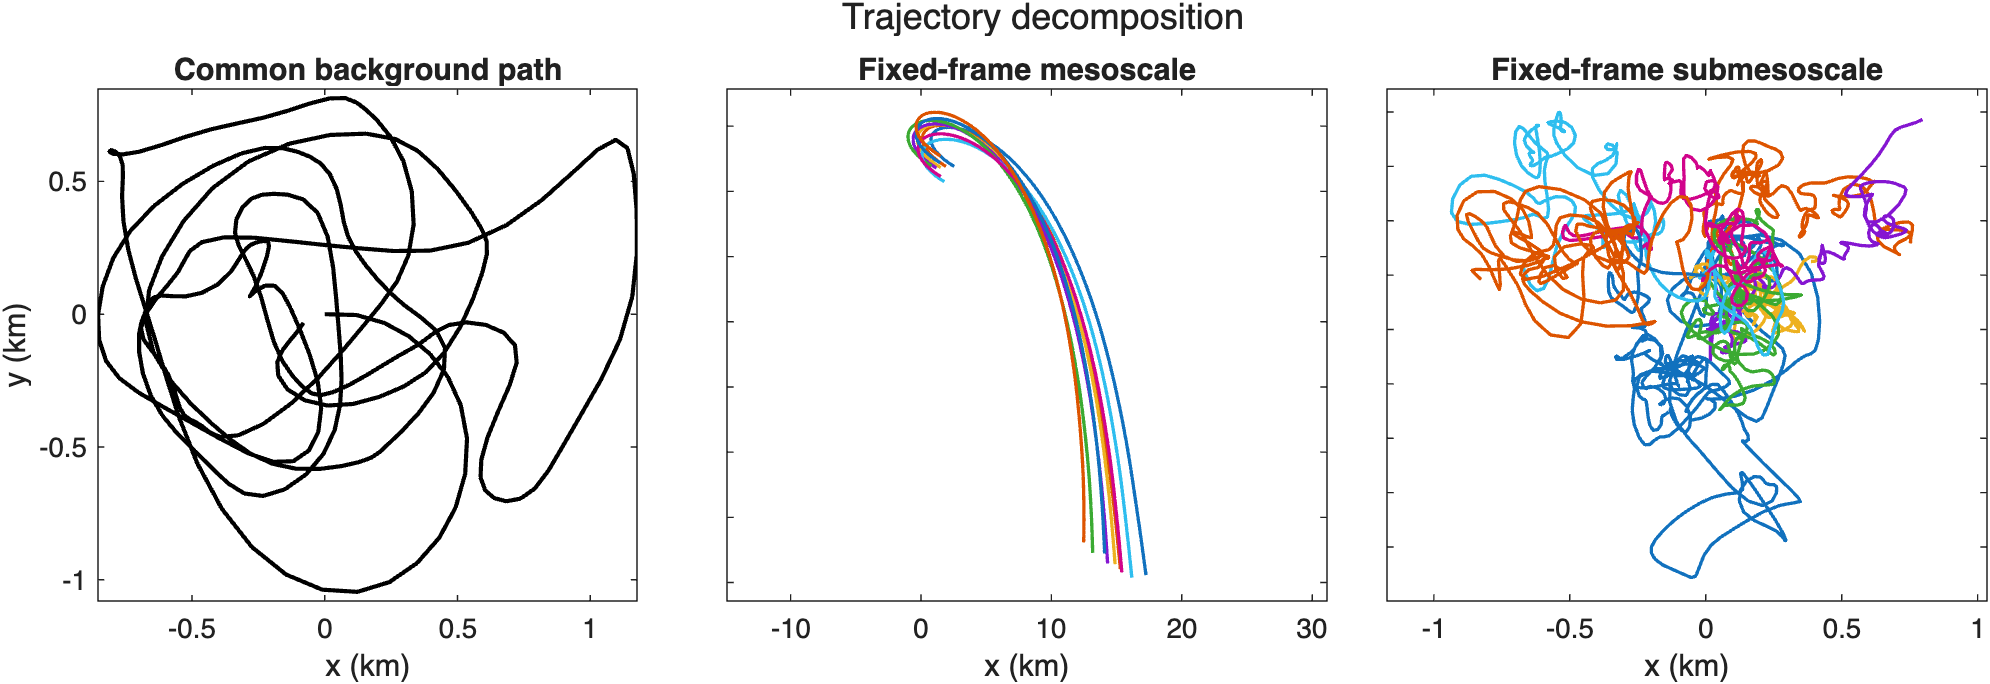
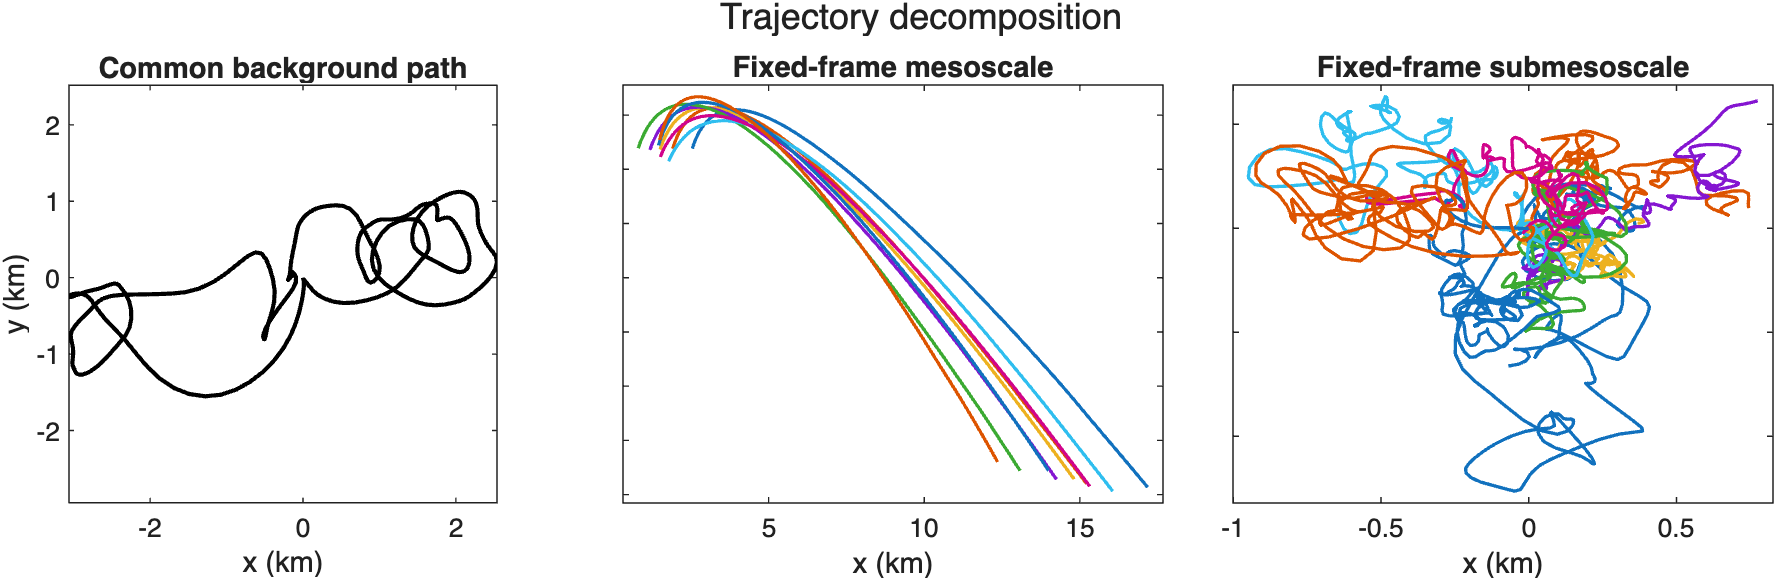
Refine gridded streamfunction tutorial narrative

diff --git a/Examples/Tutorials/GriddedStreamfunctionFit.m b/Examples/Tutorials/GriddedStreamfunctionFit.m
@@ -11,16 +11,11 @@
 %
 % $$ \dot{x}_k = u^{\mathrm{meso}} + u^{\mathrm{bg}} + u_k^{\mathrm{sm}}, \qquad \dot{y}_k = v^{\mathrm{meso}} + v^{\mathrm{bg}} + v_k^{\mathrm{sm}}. $$
 %
-% The checked-in Site 1 LatMix cluster translates together in the fixed
-% frame while also shearing and spreading relative to its center of mass.
-% This tutorial starts from those observed trajectories, then removes the
-% common translation to fit a zero-vorticity mesoscale model.
+% These are smoothed Site 1 LatMix trajectories in the fixed frame. The
+% goal is to separate the common cluster translation from the relative
+% motion within the cluster.
 scriptDir = fileparts(mfilename("fullpath"));
 dataPath = fullfile(scriptDir, "..", "..", "Estimation", "ExampleData", "LatMix2011", "smoothedGriddedRho1Drifters.mat");
-if ~isfile(dataPath)
-    error("GriddedStreamfunction:MissingExampleData", "Expected local example data at %s.", dataPath);
-end
-
 siteData = load(dataPath);
 t = reshape(siteData.t, [], 1);
 x = siteData.x(:, 1:(end - 1));
@@ -30,31 +25,39 @@ tDays = t/86400;
 f0 = 2 * 7.2921e-5 * sin(siteData.lat0*pi/180);
 
 %% Plot the drifters in the fixed frame
-% In the laboratory frame, the cluster translation and the relative motion
-% are superimposed. The fit will later separate those two pieces.
+% These smoothed trajectories are shown in the fixed frame. The fit will
+% separate the common translation from the relative motion.
 figure(Color="w", Position=[100 100 430 360]); axFixed = axes; hold(axFixed, "on")
 for iDrifter = 1:nDrifters
     plot(axFixed, x(:, iDrifter)/1000, y(:, iDrifter)/1000, LineWidth=1.2);
 end
 axis(axFixed, "equal"); xlabel(axFixed, "x (km)"); ylabel(axFixed, "y (km)")
 title(axFixed, "Fixed-frame drifters"); box(axFixed, "on")
-if exist("tutorialFigureCapture", "var") && isa(tutorialFigureCapture, "function_handle"), tutorialFigureCapture("fixed-frame-drifters", Caption="In the fixed frame, the Site 1 drifters translate together while their relative spreading remains embedded in the common cluster motion."); end
+if exist("tutorialFigureCapture", "var") && isa(tutorialFigureCapture, "function_handle"), tutorialFigureCapture("fixed-frame-drifters", Caption="These smoothed fixed-frame trajectories still combine the common cluster translation with the relative motion that the estimator will separate."); end
 
-%% Convert the drifters to trajectory splines
-% Each drifter becomes one cubic `TrajectorySpline`, so the estimator
-% works with both positions and spline-derived velocities on the same
-% support times.
+%% Build the centered zero-vorticity fit
+% Each drifter is first represented as a cubic `TrajectorySpline`, then
+% the fit is built directly from those splines with
+% [`fromTrajectories`](../classes/estimators/gridded-streamfunction/griddedstreamfunction/fromtrajectories).
+% The key control is
+% [`psiS`](../classes/estimators/gridded-streamfunction/griddedstreamfunction/psis):
+% `psiS=[2 2 1]` makes the centered mesoscale streamfunction quadratic in
+% `q` and `r`, and linear in time, so the fit can represent a slowly
+% evolving strain field without becoming high order.
+% [`fastS`](../classes/estimators/gridded-streamfunction/griddedstreamfunction/fasts)
+% = `3` keeps the center-of-mass and background trajectories cubic in
+% time, and
+% [`mesoscaleConstraint`](../classes/estimators/gridded-streamfunction/griddedstreamfunction/mesoscaleconstraint)
+% = `"zeroVorticity"` removes solid-body rotation so the mesoscale fit is
+% harmonic and strain-dominated. See
+% [`centeredCoordinates`](../classes/estimators/gridded-streamfunction/griddedstreamfunction/centeredcoordinates)
+% for the matching COM-frame transform.
 trajectoryCell = cell(nDrifters, 1);
 for iDrifter = 1:nDrifters
     trajectoryCell{iDrifter} = TrajectorySpline.fromData(t, x(:, iDrifter), y(:, iDrifter), S=3);
 end
 trajectories = vertcat(trajectoryCell{:});
-
-%% Fit a zero-vorticity mesoscale model
-% The Site 1 tutorial uses a quadratic-in-space, cubic-in-time mesoscale
-% spline basis together with `mesoscaleConstraint="zeroVorticity"`, which
-% keeps the fitted mesoscale flow harmonic in the centered frame.
-fit = GriddedStreamfunction.fromTrajectories(trajectories, psiS=[2 2 3], fastS=3, mesoscaleConstraint="zeroVorticity");
+fit = GriddedStreamfunction.fromTrajectories(trajectories, psiS=[2 2 1], fastS=3, mesoscaleConstraint="zeroVorticity");
 decomposition = fit.decomposition;
 
 %% Move to the center-of-mass frame
@@ -114,28 +117,36 @@ if exist("tutorialFigureCapture", "var") && isa(tutorialFigureCapture, "function
 backgroundX = fit.backgroundTrajectory.x(t);
 backgroundY = fit.backgroundTrajectory.y(t);
 
-figure(Color="w", Position=[100 100 1080 340]); tlDecomposition = tiledlayout(1, 3, TileSpacing="none", Padding="compact");
+figure(Color="w", Position=[100 100 960 290]); tlDecomposition = tiledlayout(1, 3, TileSpacing="compact", Padding="compact");
 axBackgroundPath = nexttile;
 plot(axBackgroundPath, backgroundX/1000, backgroundY/1000, "k", LineWidth=1.5)
 axis(axBackgroundPath, "equal"); xlabel(axBackgroundPath, "x (km)"); ylabel(axBackgroundPath, "y (km)")
 title(axBackgroundPath, "Common background path"); box(axBackgroundPath, "on")
 
 axMesoscale = nexttile; hold(axMesoscale, "on")
+mesoXMin = inf; mesoXMax = -inf; mesoYMin = inf; mesoYMax = -inf;
 for iDrifter = 1:nDrifters
     trajectory = fit.observedTrajectories(iDrifter); ti = trajectory.t; mesoscale = decomposition.fixedFrame.mesoscale(iDrifter);
-    plot(axMesoscale, mesoscale.x(ti)/1000, mesoscale.y(ti)/1000, LineWidth=1.2)
+    xMeso = mesoscale.x(ti)/1000; yMeso = mesoscale.y(ti)/1000;
+    mesoXMin = min(mesoXMin, min(xMeso)); mesoXMax = max(mesoXMax, max(xMeso));
+    mesoYMin = min(mesoYMin, min(yMeso)); mesoYMax = max(mesoYMax, max(yMeso));
+    plot(axMesoscale, xMeso, yMeso, LineWidth=1.2)
 end
-axis(axMesoscale, "equal"); xMeso = xlim(axMesoscale); yMeso = ylim(axMesoscale);
-xlim(axMesoscale, xMeso + 0.05 * max(diff(xMeso), 1) * [-1 1]); ylim(axMesoscale, yMeso + 0.05 * max(diff(yMeso), 1) * [-1 1])
+xlim(axMesoscale, [mesoXMin mesoXMax] + 0.03 * max(mesoXMax - mesoXMin, 1) * [-1 1])
+ylim(axMesoscale, [mesoYMin mesoYMax] + 0.03 * max(mesoYMax - mesoYMin, 1) * [-1 1])
 xlabel(axMesoscale, "x (km)"); title(axMesoscale, "Fixed-frame mesoscale"); axMesoscale.YTickLabel = []; box(axMesoscale, "on")
 
 axSubmesoscale = nexttile; hold(axSubmesoscale, "on")
+subXMin = inf; subXMax = -inf; subYMin = inf; subYMax = -inf;
 for iDrifter = 1:nDrifters
     trajectory = fit.observedTrajectories(iDrifter); ti = trajectory.t; submesoscale = decomposition.fixedFrame.submesoscale(iDrifter);
-    plot(axSubmesoscale, submesoscale.x(ti)/1000, submesoscale.y(ti)/1000, LineWidth=1.2)
+    xSubmeso = submesoscale.x(ti)/1000; ySubmeso = submesoscale.y(ti)/1000;
+    subXMin = min(subXMin, min(xSubmeso)); subXMax = max(subXMax, max(xSubmeso));
+    subYMin = min(subYMin, min(ySubmeso)); subYMax = max(subYMax, max(ySubmeso));
+    plot(axSubmesoscale, xSubmeso, ySubmeso, LineWidth=1.2)
 end
-axis(axSubmesoscale, "equal"); xSubmeso = xlim(axSubmesoscale); ySubmeso = ylim(axSubmesoscale);
-xlim(axSubmesoscale, xSubmeso + 0.05 * max(diff(xSubmeso), 1) * [-1 1]); ylim(axSubmesoscale, ySubmeso + 0.05 * max(diff(ySubmeso), 1) * [-1 1])
+xlim(axSubmesoscale, [subXMin subXMax] + 0.03 * max(subXMax - subXMin, 1) * [-1 1])
+ylim(axSubmesoscale, [subYMin subYMax] + 0.03 * max(subYMax - subYMin, 1) * [-1 1])
 xlabel(axSubmesoscale, "x (km)"); title(axSubmesoscale, "Fixed-frame submesoscale"); axSubmesoscale.YTickLabel = []; box(axSubmesoscale, "on")
 
 title(tlDecomposition, "Trajectory decomposition")
@@ -161,14 +172,22 @@ vSubmesoscale = submesoscale.v(ti);
 uReconstruction = uBackgroundDrifter + uMesoscale + uSubmesoscale;
 vReconstruction = vBackgroundDrifter + vMesoscale + vSubmesoscale;
 
-%% Print a compact fit summary
+%% Summarize the fit quality
+% For this low-order example, the fitted mesoscale vorticity is
+% effectively zero and the component velocities close back to the observed
+% trajectory at machine precision. Printing the magnitudes makes that
+% scale explicit.
 fprintf("Site 1 zero-vorticity fit\n");
 fprintf("  drifters: %d\n", nDrifters);
 fprintf("  max |zeta/f0| on COM path: %.3e\n", max(abs(zeta/f0)));
 fprintf("  drifter %d max |u-u_recon|: %.3e m/s\n", iDrifter, max(abs(uObserved - uReconstruction)));
 fprintf("  drifter %d max |v-v_recon|: %.3e m/s\n", iDrifter, max(abs(vObserved - vReconstruction)));
 
-%% Plot the velocity decomposition for one drifter
+%% View the same decomposition as a velocity time series
+% The spatial decomposition above shows where the pieces live. This
+% alternative time-series view shows how the background, mesoscale, and
+% submesoscale velocities add back to the observed spline-derived
+% velocity at each sample time for one drifter.
 figure(Color="w", Position=[100 100 760 420]); tlVelocity = tiledlayout(2, 1, TileSpacing="compact", Padding="compact");
 
 axU = nexttile; hold(axU, "on")

diff --git a/docs/tutorials/gridded-streamfunction-fit.md b/docs/tutorials/gridded-streamfunction-fit.md
@@ -21,18 +21,13 @@ that
 
 $$ \dot{x}_k = u^{\mathrm{meso}} + u^{\mathrm{bg}} + u_k^{\mathrm{sm}}, \qquad \dot{y}_k = v^{\mathrm{meso}} + v^{\mathrm{bg}} + v_k^{\mathrm{sm}}. $$
 
-The checked-in Site 1 LatMix cluster translates together in the fixed
-frame while also shearing and spreading relative to its center of mass.
-This tutorial starts from those observed trajectories, then removes the
-common translation to fit a zero-vorticity mesoscale model.
+These are smoothed Site 1 LatMix trajectories in the fixed frame. The
+goal is to separate the common cluster translation from the relative
+motion within the cluster.
 
 ```matlab
 scriptDir = fileparts(mfilename("fullpath"));
 dataPath = fullfile(scriptDir, "..", "..", "Estimation", "ExampleData", "LatMix2011", "smoothedGriddedRho1Drifters.mat");
-if ~isfile(dataPath)
-    error("GriddedStreamfunction:MissingExampleData", "Expected local example data at %s.", dataPath);
-end
-
 siteData = load(dataPath);
 t = reshape(siteData.t, [], 1);
 x = siteData.x(:, 1:(end - 1));
@@ -44,8 +39,8 @@ f0 = 2 * 7.2921e-5 * sin(siteData.lat0*pi/180);
 
 ## Plot the drifters in the fixed frame
 
-In the laboratory frame, the cluster translation and the relative motion
-are superimposed. The fit will later separate those two pieces.
+These smoothed trajectories are shown in the fixed frame. The fit will
+separate the common translation from the relative motion.
 
 ```matlab
 figure(Color="w", Position=[100 100 430 360]); axFixed = axes; hold(axFixed, "on")
@@ -56,15 +51,28 @@ axis(axFixed, "equal"); xlabel(axFixed, "x (km)"); ylabel(axFixed, "y (km)")
 title(axFixed, "Fixed-frame drifters"); box(axFixed, "on")
 ```
 
-![In the fixed frame, the Site 1 drifters translate together while their relative spreading remains embedded in the common cluster motion.](./gridded-streamfunction-fit/fixed-frame-drifters.png)
+![These smoothed fixed-frame trajectories still combine the common cluster translation with the relative motion that the estimator will separate.](./gridded-streamfunction-fit/fixed-frame-drifters.png)
 
-*In the fixed frame, the Site 1 drifters translate together while their relative spreading remains embedded in the common cluster motion.*
+*These smoothed fixed-frame trajectories still combine the common cluster translation with the relative motion that the estimator will separate.*
 
-## Convert the drifters to trajectory splines
+## Build the centered zero-vorticity fit
 
-Each drifter becomes one cubic `TrajectorySpline`, so the estimator
-works with both positions and spline-derived velocities on the same
-support times.
+Each drifter is first represented as a cubic `TrajectorySpline`, then
+the fit is built directly from those splines with
+[`fromTrajectories`](../classes/estimators/gridded-streamfunction/griddedstreamfunction/fromtrajectories).
+The key control is
+[`psiS`](../classes/estimators/gridded-streamfunction/griddedstreamfunction/psis):
+`psiS=[2 2 1]` makes the centered mesoscale streamfunction quadratic in
+`q` and `r`, and linear in time, so the fit can represent a slowly
+evolving strain field without becoming high order.
+[`fastS`](../classes/estimators/gridded-streamfunction/griddedstreamfunction/fasts)
+= `3` keeps the center-of-mass and background trajectories cubic in
+time, and
+[`mesoscaleConstraint`](../classes/estimators/gridded-streamfunction/griddedstreamfunction/mesoscaleconstraint)
+= `"zeroVorticity"` removes solid-body rotation so the mesoscale fit is
+harmonic and strain-dominated. See
+[`centeredCoordinates`](../classes/estimators/gridded-streamfunction/griddedstreamfunction/centeredcoordinates)
+for the matching COM-frame transform.
 
 ```matlab
 trajectoryCell = cell(nDrifters, 1);
@@ -72,16 +80,7 @@ for iDrifter = 1:nDrifters
     trajectoryCell{iDrifter} = TrajectorySpline.fromData(t, x(:, iDrifter), y(:, iDrifter), S=3);
 end
 trajectories = vertcat(trajectoryCell{:});
-```
-
-## Fit a zero-vorticity mesoscale model
-
-The Site 1 tutorial uses a quadratic-in-space, cubic-in-time mesoscale
-spline basis together with `mesoscaleConstraint="zeroVorticity"`, which
-keeps the fitted mesoscale flow harmonic in the centered frame.
-
-```matlab
-fit = GriddedStreamfunction.fromTrajectories(trajectories, psiS=[2 2 3], fastS=3, mesoscaleConstraint="zeroVorticity");
+fit = GriddedStreamfunction.fromTrajectories(trajectories, psiS=[2 2 1], fastS=3, mesoscaleConstraint="zeroVorticity");
 decomposition = fit.decomposition;
 ```
 
@@ -162,28 +161,36 @@ with one mesoscale and one submesoscale trajectory for each drifter.
 backgroundX = fit.backgroundTrajectory.x(t);
 backgroundY = fit.backgroundTrajectory.y(t);
 
-figure(Color="w", Position=[100 100 1080 340]); tlDecomposition = tiledlayout(1, 3, TileSpacing="none", Padding="compact");
+figure(Color="w", Position=[100 100 960 290]); tlDecomposition = tiledlayout(1, 3, TileSpacing="compact", Padding="compact");
 axBackgroundPath = nexttile;
 plot(axBackgroundPath, backgroundX/1000, backgroundY/1000, "k", LineWidth=1.5)
 axis(axBackgroundPath, "equal"); xlabel(axBackgroundPath, "x (km)"); ylabel(axBackgroundPath, "y (km)")
 title(axBackgroundPath, "Common background path"); box(axBackgroundPath, "on")
 
 axMesoscale = nexttile; hold(axMesoscale, "on")
+mesoXMin = inf; mesoXMax = -inf; mesoYMin = inf; mesoYMax = -inf;
 for iDrifter = 1:nDrifters
     trajectory = fit.observedTrajectories(iDrifter); ti = trajectory.t; mesoscale = decomposition.fixedFrame.mesoscale(iDrifter);
-    plot(axMesoscale, mesoscale.x(ti)/1000, mesoscale.y(ti)/1000, LineWidth=1.2)
+    xMeso = mesoscale.x(ti)/1000; yMeso = mesoscale.y(ti)/1000;
+    mesoXMin = min(mesoXMin, min(xMeso)); mesoXMax = max(mesoXMax, max(xMeso));
+    mesoYMin = min(mesoYMin, min(yMeso)); mesoYMax = max(mesoYMax, max(yMeso));
+    plot(axMesoscale, xMeso, yMeso, LineWidth=1.2)
 end
-axis(axMesoscale, "equal"); xMeso = xlim(axMesoscale); yMeso = ylim(axMesoscale);
-xlim(axMesoscale, xMeso + 0.05 * max(diff(xMeso), 1) * [-1 1]); ylim(axMesoscale, yMeso + 0.05 * max(diff(yMeso), 1) * [-1 1])
+xlim(axMesoscale, [mesoXMin mesoXMax] + 0.03 * max(mesoXMax - mesoXMin, 1) * [-1 1])
+ylim(axMesoscale, [mesoYMin mesoYMax] + 0.03 * max(mesoYMax - mesoYMin, 1) * [-1 1])
 xlabel(axMesoscale, "x (km)"); title(axMesoscale, "Fixed-frame mesoscale"); axMesoscale.YTickLabel = []; box(axMesoscale, "on")
 
 axSubmesoscale = nexttile; hold(axSubmesoscale, "on")
+subXMin = inf; subXMax = -inf; subYMin = inf; subYMax = -inf;
 for iDrifter = 1:nDrifters
     trajectory = fit.observedTrajectories(iDrifter); ti = trajectory.t; submesoscale = decomposition.fixedFrame.submesoscale(iDrifter);
-    plot(axSubmesoscale, submesoscale.x(ti)/1000, submesoscale.y(ti)/1000, LineWidth=1.2)
+    xSubmeso = submesoscale.x(ti)/1000; ySubmeso = submesoscale.y(ti)/1000;
+    subXMin = min(subXMin, min(xSubmeso)); subXMax = max(subXMax, max(xSubmeso));
+    subYMin = min(subYMin, min(ySubmeso)); subYMax = max(subYMax, max(ySubmeso));
+    plot(axSubmesoscale, xSubmeso, ySubmeso, LineWidth=1.2)
 end
-axis(axSubmesoscale, "equal"); xSubmeso = xlim(axSubmesoscale); ySubmeso = ylim(axSubmesoscale);
-xlim(axSubmesoscale, xSubmeso + 0.05 * max(diff(xSubmeso), 1) * [-1 1]); ylim(axSubmesoscale, ySubmeso + 0.05 * max(diff(ySubmeso), 1) * [-1 1])
+xlim(axSubmesoscale, [subXMin subXMax] + 0.03 * max(subXMax - subXMin, 1) * [-1 1])
+ylim(axSubmesoscale, [subYMin subYMax] + 0.03 * max(subYMax - subYMin, 1) * [-1 1])
 xlabel(axSubmesoscale, "x (km)"); title(axSubmesoscale, "Fixed-frame submesoscale"); axSubmesoscale.YTickLabel = []; box(axSubmesoscale, "on")
 
 title(tlDecomposition, "Trajectory decomposition")
@@ -217,7 +224,12 @@ uReconstruction = uBackgroundDrifter + uMesoscale + uSubmesoscale;
 vReconstruction = vBackgroundDrifter + vMesoscale + vSubmesoscale;
 ```
 
-## Print a compact fit summary
+## Summarize the fit quality
+
+For this low-order example, the fitted mesoscale vorticity is
+effectively zero and the component velocities close back to the observed
+trajectory at machine precision. Printing the magnitudes makes that
+scale explicit.
 
 ```matlab
 fprintf("Site 1 zero-vorticity fit\n");
@@ -227,7 +239,12 @@ fprintf("  drifter %d max |u-u_recon|: %.3e m/s\n", iDrifter, max(abs(uObserved 
 fprintf("  drifter %d max |v-v_recon|: %.3e m/s\n", iDrifter, max(abs(vObserved - vReconstruction)));
 ```
 
-## Plot the velocity decomposition for one drifter
+## View the same decomposition as a velocity time series
+
+The spatial decomposition above shows where the pieces live. This
+alternative time-series view shows how the background, mesoscale, and
+submesoscale velocities add back to the observed spline-derived
+velocity at each sample time for one drifter.
 
 ```matlab
 figure(Color="w", Position=[100 100 760 420]); tlVelocity = tiledlayout(2, 1, TileSpacing="compact", Padding="compact");
